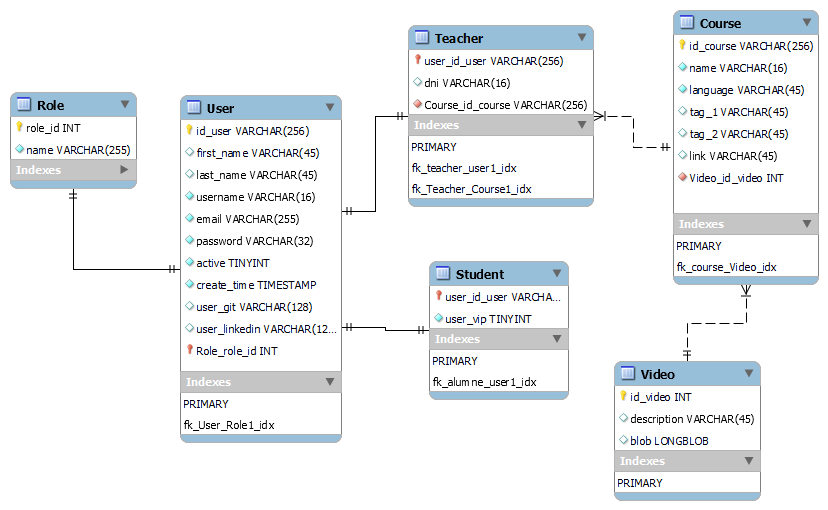
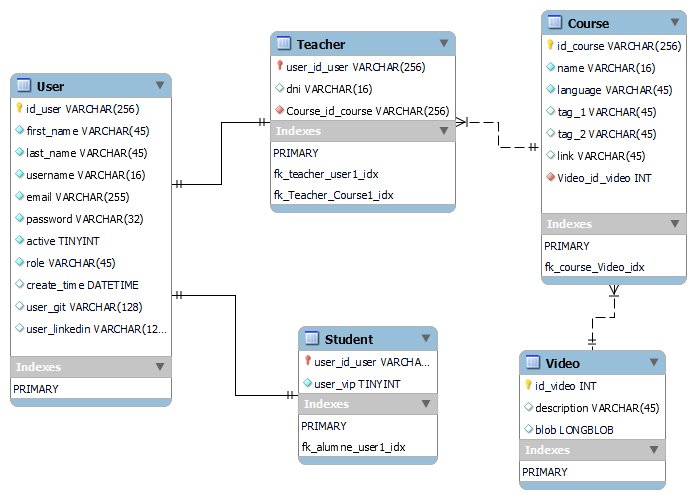
Agrego inits en paquetes y modifico script de base de datos y su modelo. Quito las enumeracions de tipo Rol como clase del modelo y agrego el atributo role en usuario

diff --git a/Project/BackEnd/Dao/UserDao.py b/Project/BackEnd/Dao/UserDao.py
@@ -1,6 +1,8 @@
-from Conexion import Connection, user, password, host, database, port
+import sys
+sys.path.append('./Conexion')
+from Conexion.Connection import Connection, user, password, host, database, port
+
 from mysql.connector import Error
-from Entitys import User
 
 connection = Connection(user, password, host, database, port)
 
@@ -15,18 +17,19 @@ class UserDao:
     def __init__(self):
         pass
     
-    def create_user(User):
-        sql = f"INSERT INTO user VALUES ())"
+    def save_user():
+        sql = f"INSERT INTO user VALUES ('1','Nicolás','Ramos', 'jnramos','jnicolas.ramos10@gmail.com','1234', 1 , 'ADMIN', NULL, NULL, NULL))"
         try:
             connection.cursor.execute(sql)
             connection.db.commit()
+            print('Guardado correcto')
         except Error as e:
             print(f'Error de insercion de usuario. Detalle: {e.msg}')
         finally:
             connect_validation()
                 
     
-    def search_user(id):
+    def find_user(id):
         sql = f"SELECT * FROM user WHERE id_user = '{id}'"
         try:
             connection.cursor.execute(sql)
@@ -45,3 +48,6 @@ class UserDao:
 
     
   
+user_dao = UserDao()
+
+user_dao.save_user()
